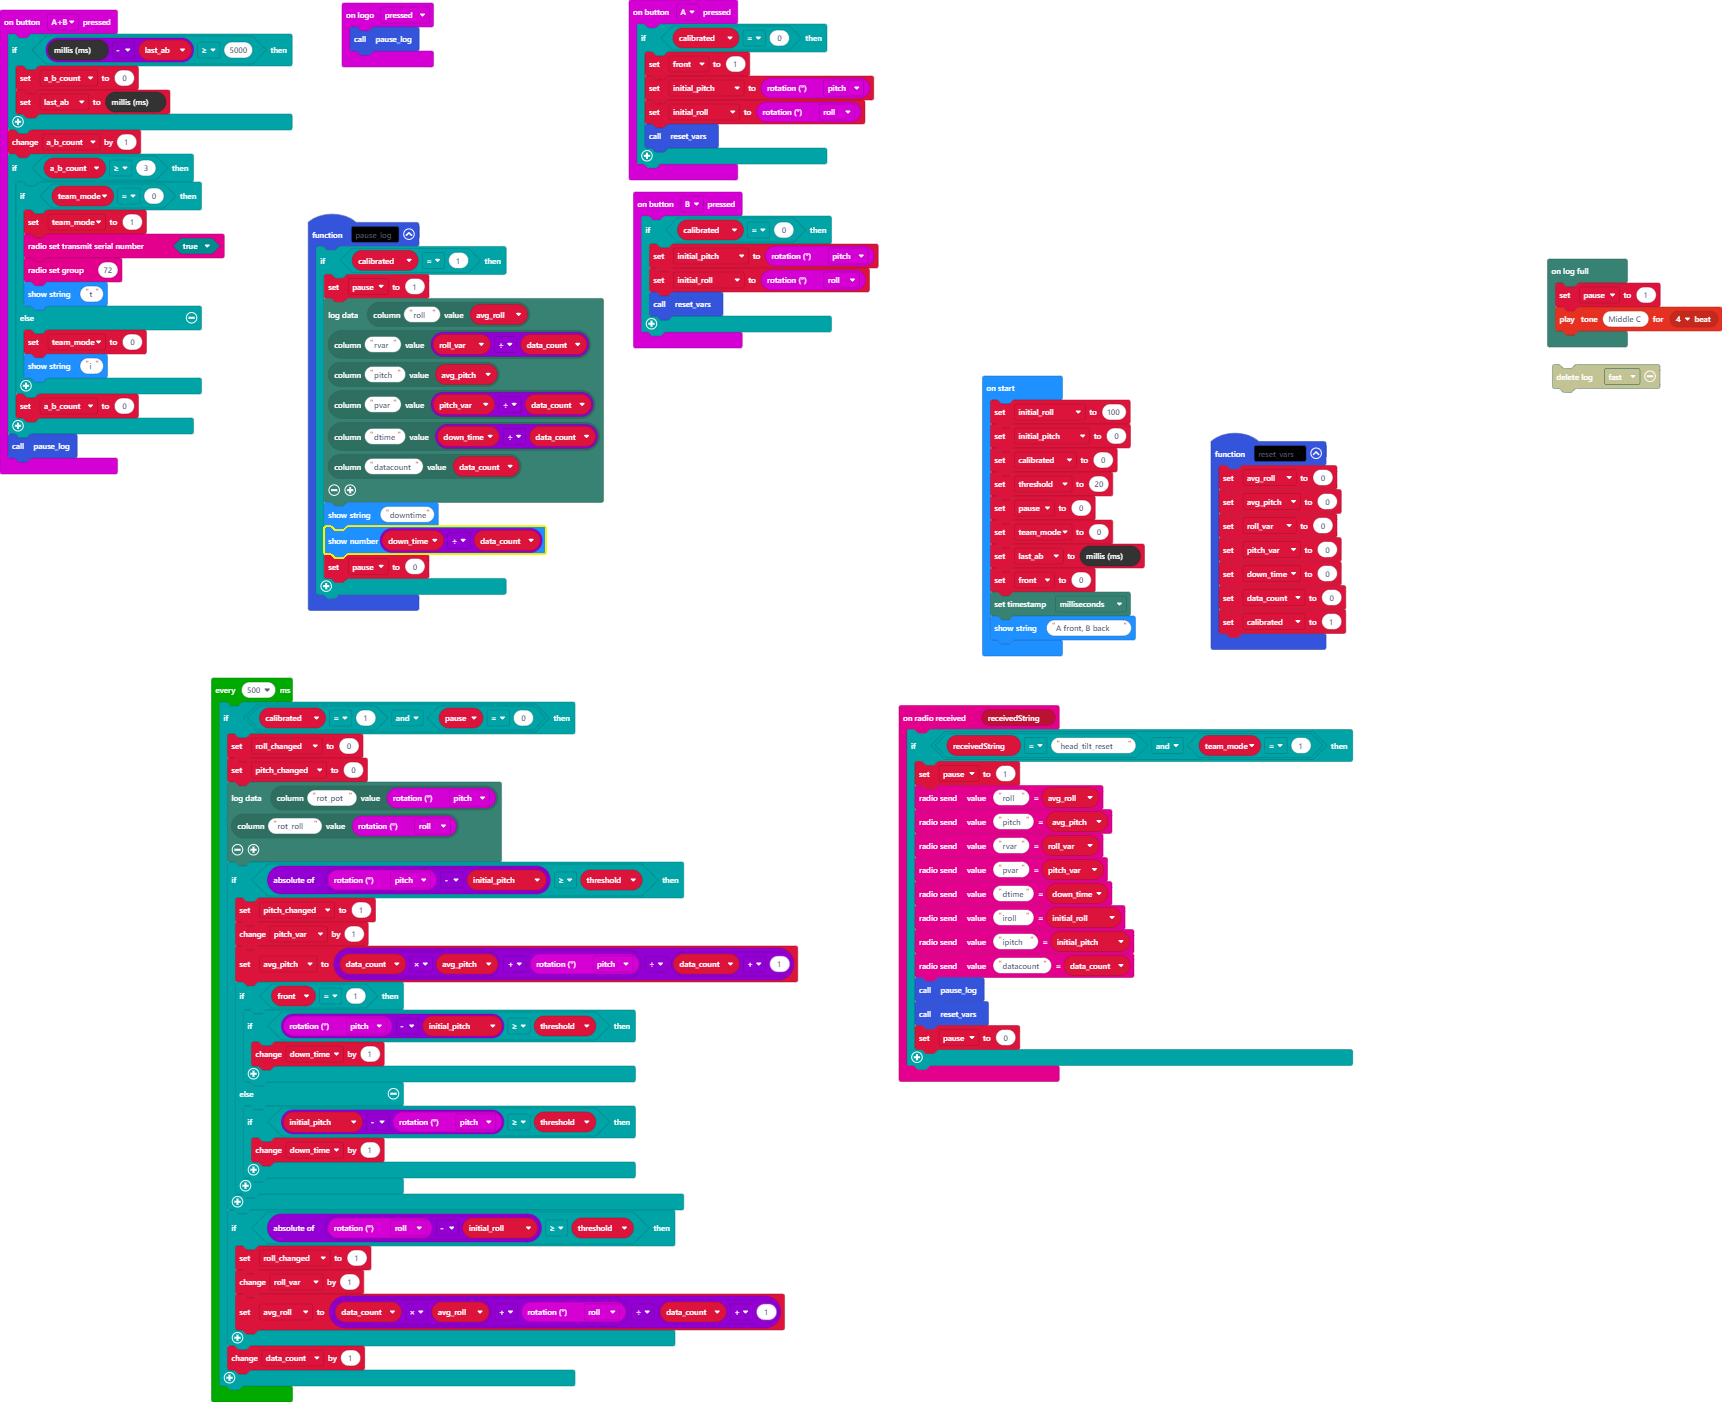
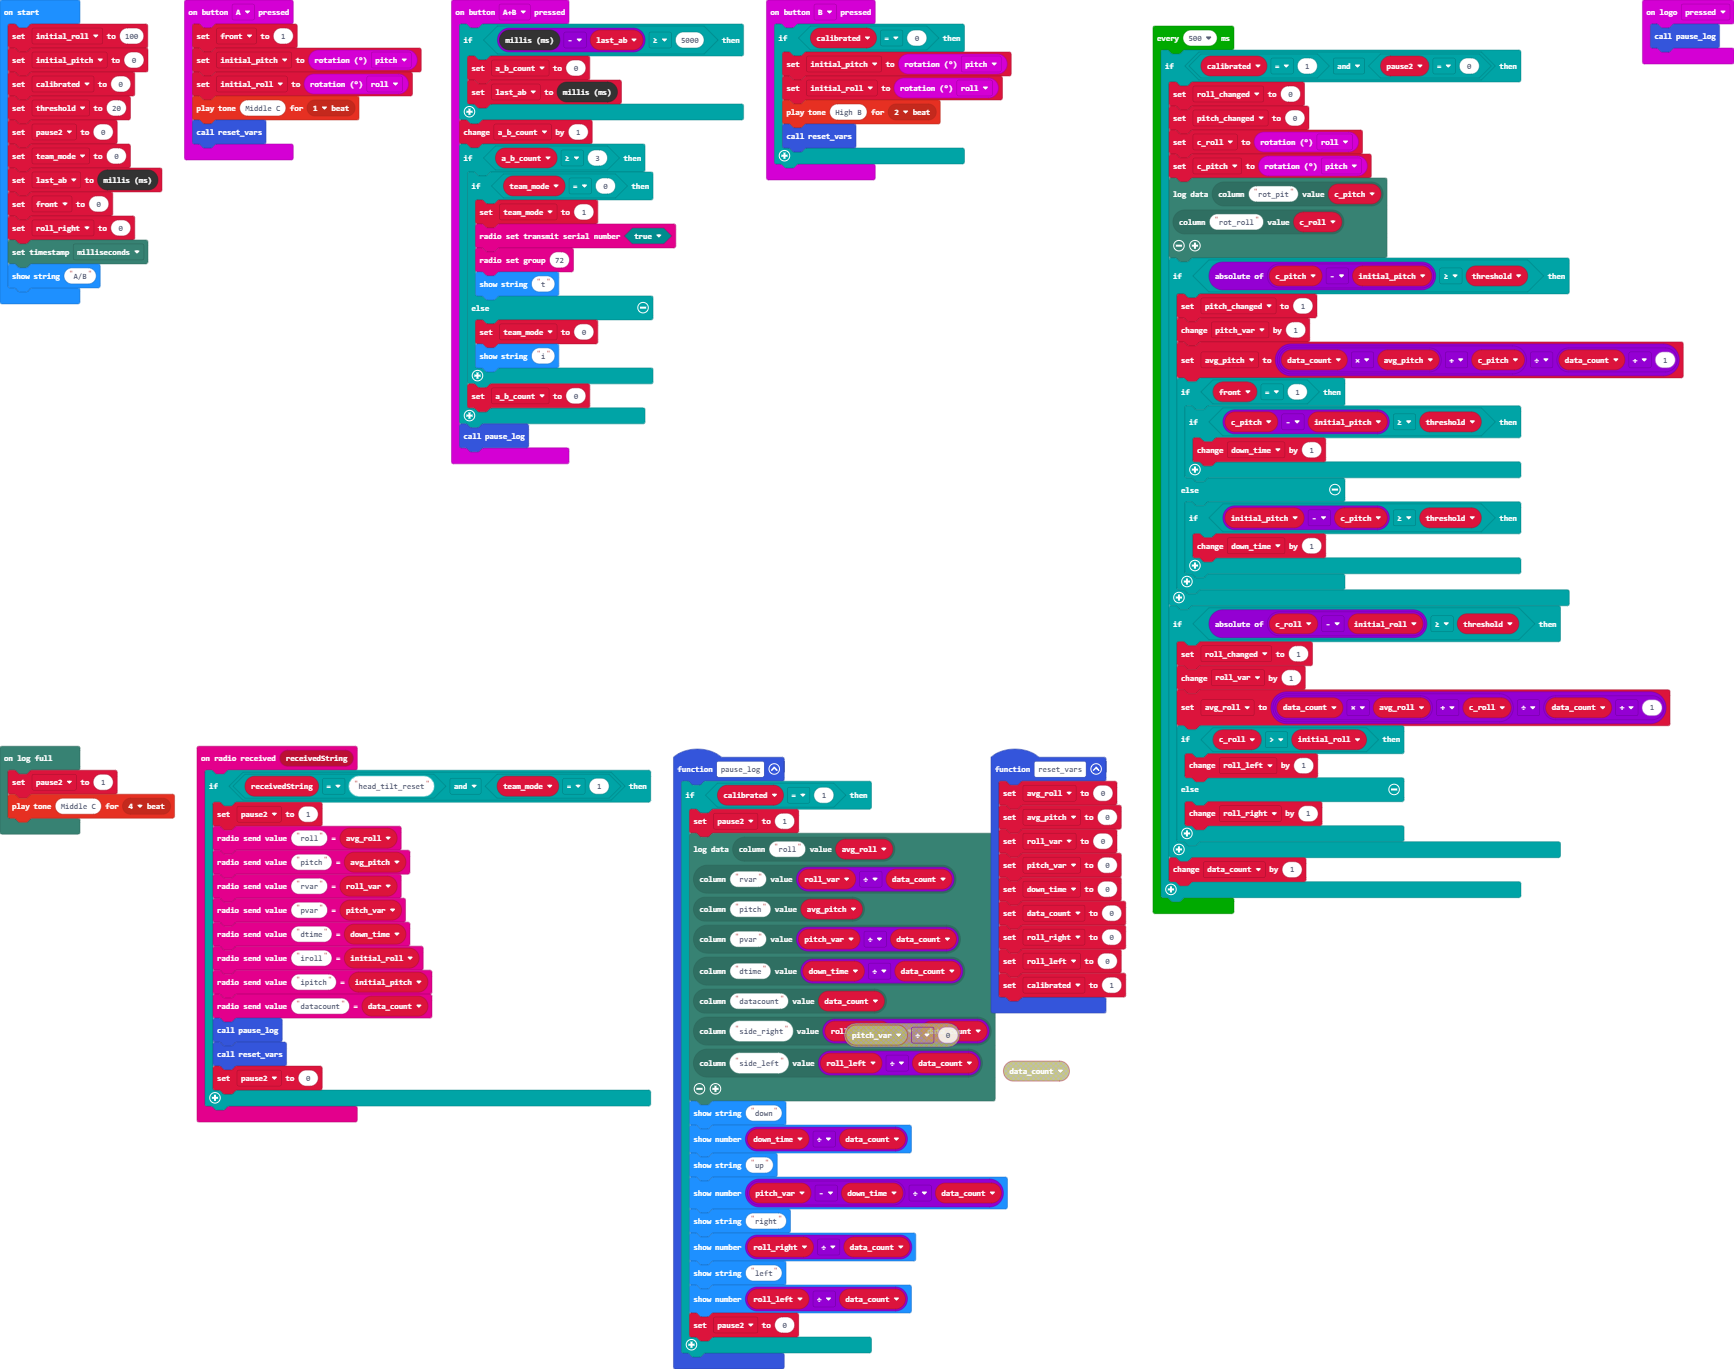
Update pxt.json, main.blocks, main.ts

diff --git a/main.ts b/main.ts
@@ -7,10 +7,18 @@ function pause_log () {
         datalogger.createCV("pitch", avg_pitch),
         datalogger.createCV("pvar", pitch_var / data_count),
         datalogger.createCV("dtime", down_time / data_count),
-        datalogger.createCV("datacount", data_count)
+        datalogger.createCV("datacount", data_count),
+        datalogger.createCV("side_right", roll_right / data_count),
+        datalogger.createCV("side_left", roll_left / data_count)
         )
-        basic.showString("downtime")
+        basic.showString("down")
         basic.showNumber(down_time / data_count)
+        basic.showString("up")
+        basic.showNumber((pitch_var - down_time) / data_count)
+        basic.showString("right")
+        basic.showNumber(roll_right / data_count)
+        basic.showString("left")
+        basic.showNumber(roll_left / data_count)
         pause2 = 0
     }
 }
@@ -19,12 +27,11 @@ datalogger.onLogFull(function () {
     music.playTone(262, music.beat(BeatFraction.Breve))
 })
 input.onButtonPressed(Button.A, function () {
-    if (calibrated == 0) {
-        front = 1
-        initial_pitch = input.rotation(Rotation.Pitch)
-        initial_roll = input.rotation(Rotation.Roll)
-        reset_vars()
-    }
+    front = 1
+    initial_pitch = input.rotation(Rotation.Pitch)
+    initial_roll = input.rotation(Rotation.Roll)
+    music.playTone(262, music.beat(BeatFraction.Whole))
+    reset_vars()
 })
 function reset_vars () {
     avg_roll = 0
@@ -33,6 +40,8 @@ function reset_vars () {
     pitch_var = 0
     down_time = 0
     data_count = 0
+    roll_right = 0
+    roll_left = 0
     calibrated = 1
 }
 input.onButtonPressed(Button.AB, function () {
@@ -75,21 +84,26 @@ input.onButtonPressed(Button.B, function () {
     if (calibrated == 0) {
         initial_pitch = input.rotation(Rotation.Pitch)
         initial_roll = input.rotation(Rotation.Roll)
+        music.playTone(988, music.beat(BeatFraction.Double))
         reset_vars()
     }
 })
 input.onLogoEvent(TouchButtonEvent.Pressed, function () {
     pause_log()
 })
+let c_pitch = 0
+let c_roll = 0
 let pitch_changed = 0
 let roll_changed = 0
 let a_b_count = 0
+let roll_left = 0
 let down_time = 0
 let pitch_var = 0
 let avg_pitch = 0
 let data_count = 0
 let roll_var = 0
 let avg_roll = 0
+let roll_right = 0
 let front = 0
 let last_ab = 0
 let team_mode = 0
@@ -105,34 +119,42 @@ pause2 = 0
 team_mode = 0
 last_ab = control.millis()
 front = 0
+roll_right = 0
 datalogger.includeTimestamp(FlashLogTimeStampFormat.Milliseconds)
-basic.showString("A front, B back")
+basic.showString("A/B")
 loops.everyInterval(500, function () {
     if (calibrated == 1 && pause2 == 0) {
         roll_changed = 0
         pitch_changed = 0
+        c_roll = input.rotation(Rotation.Roll)
+        c_pitch = input.rotation(Rotation.Pitch)
         datalogger.log(
-        datalogger.createCV("rot_pot", input.rotation(Rotation.Pitch)),
-        datalogger.createCV("rot_roll", input.rotation(Rotation.Roll))
+        datalogger.createCV("rot_pit", c_pitch),
+        datalogger.createCV("rot_roll", c_roll)
         )
-        if (Math.abs(input.rotation(Rotation.Pitch) - initial_pitch) >= threshold) {
+        if (Math.abs(c_pitch - initial_pitch) >= threshold) {
             pitch_changed = 1
             pitch_var += 1
-            avg_pitch = (data_count * avg_pitch + input.rotation(Rotation.Pitch)) / (data_count + 1)
+            avg_pitch = (data_count * avg_pitch + c_pitch) / (data_count + 1)
             if (front == 1) {
-                if (input.rotation(Rotation.Pitch) - initial_pitch >= threshold) {
+                if (c_pitch - initial_pitch >= threshold) {
                     down_time += 1
                 }
             } else {
-                if (initial_pitch - input.rotation(Rotation.Pitch) >= threshold) {
+                if (initial_pitch - c_pitch >= threshold) {
                     down_time += 1
                 }
             }
         }
-        if (Math.abs(input.rotation(Rotation.Roll) - initial_roll) >= threshold) {
+        if (Math.abs(c_roll - initial_roll) >= threshold) {
             roll_changed = 1
             roll_var += 1
-            avg_roll = (data_count * avg_roll + input.rotation(Rotation.Roll)) / (data_count + 1)
+            avg_roll = (data_count * avg_roll + c_roll) / (data_count + 1)
+            if (c_roll > initial_roll) {
+                roll_left += 1
+            } else {
+                roll_right += 1
+            }
         }
         data_count += 1
     }
